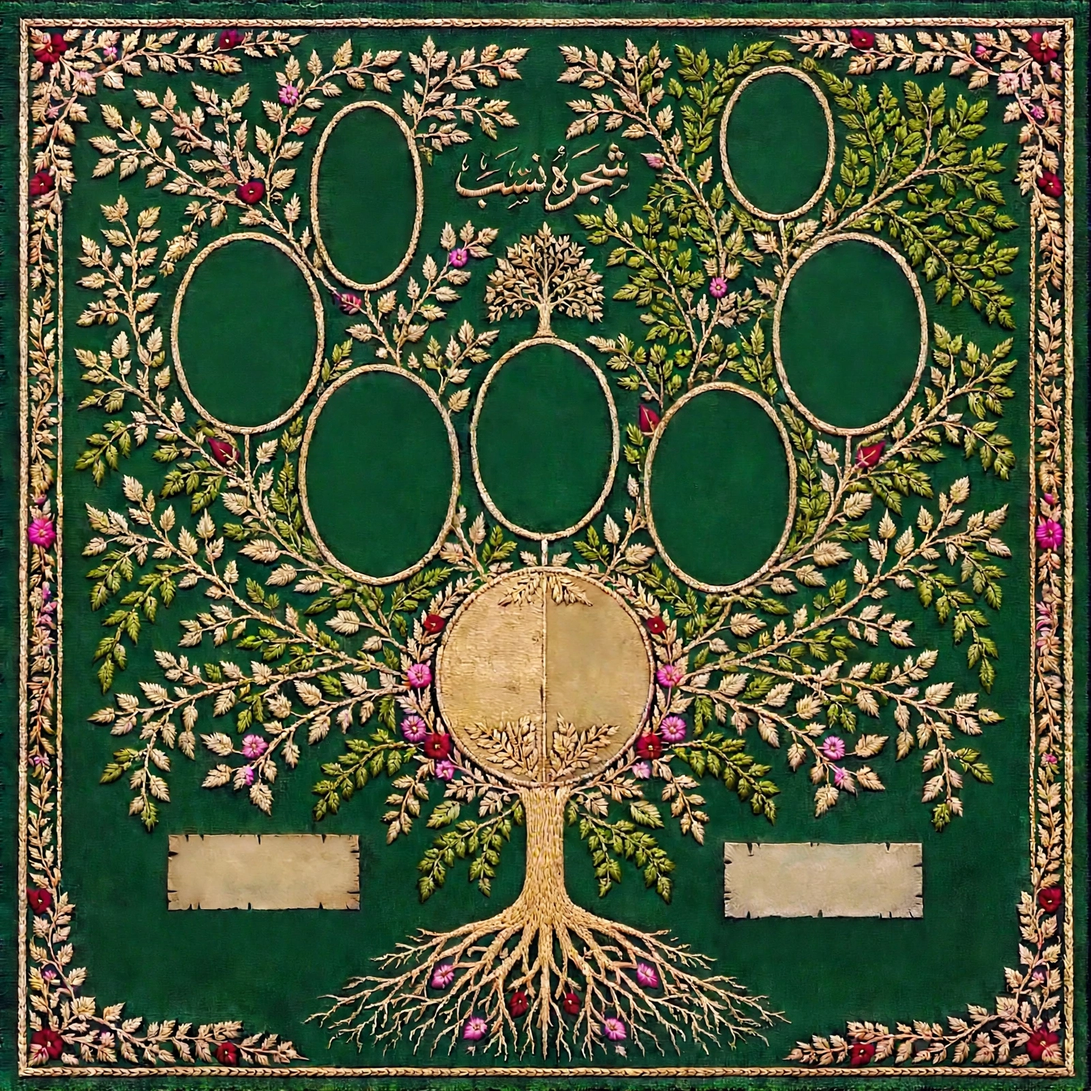
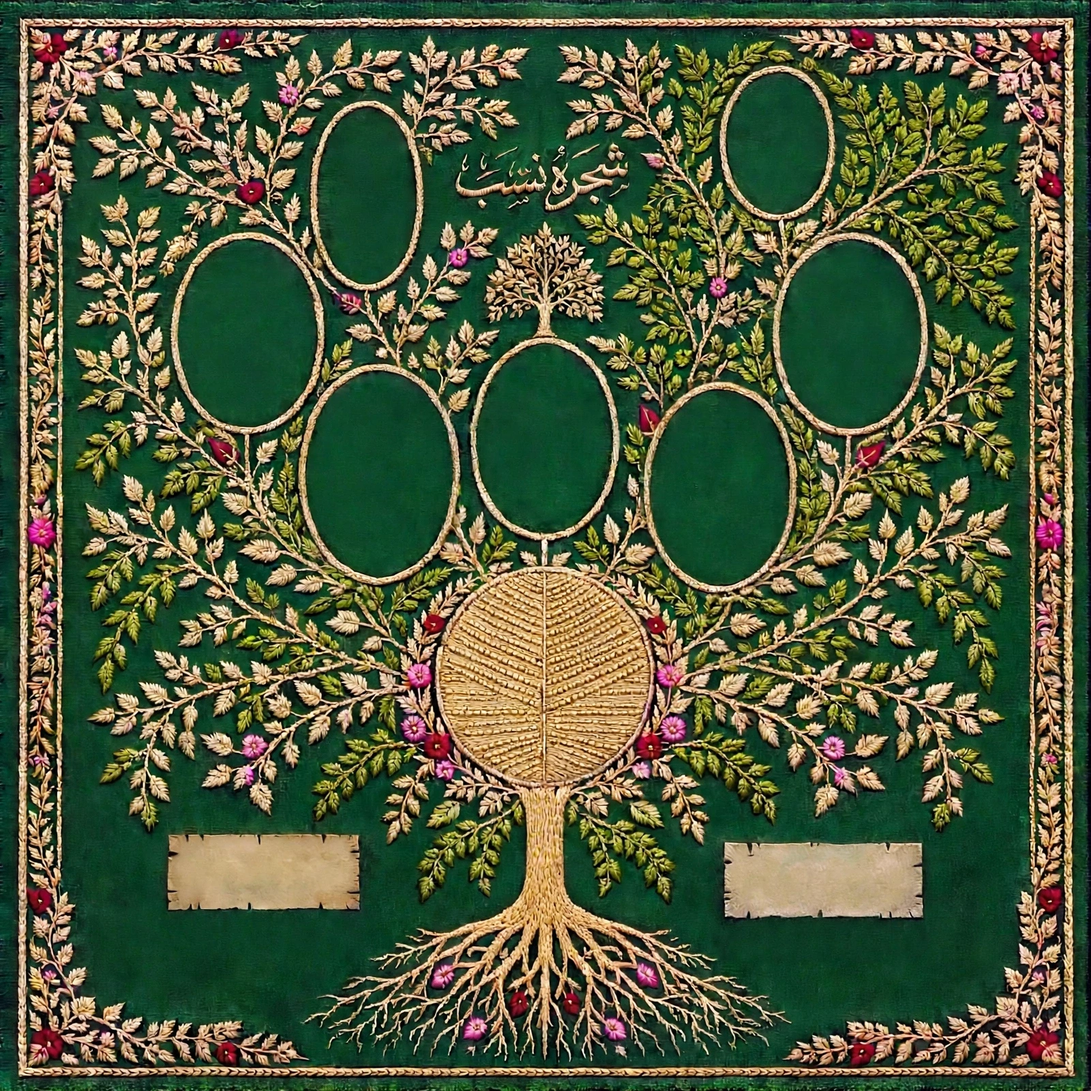
Woven gold centre disc, Humera branch test, descendant lines removed

Changed region(s): [[0.4062, 0.5, 0.5938, 0.7188]]

diff --git a/index.html b/index.html
@@ -170,6 +170,8 @@
   .art-oval .odiv{color:#c9a227;font-size:clamp(7px,.9vw,12px);line-height:1;margin:2px 0}
   .art-oval .akid{font-size:calc(clamp(9px,1.2vw,15.5px)*var(--tfs,1));line-height:1.25;display:flex;align-items:center;gap:3px;justify-content:center}
   .art-oval .akid svg{height:14px;width:auto;flex:none}
+  .art-branch{position:absolute;transform:translate(-50%,-50%);color:#f8edc9;font-weight:600;text-align:center;white-space:nowrap;z-index:3;font-size:calc(clamp(9px,1.2vw,15.5px)*var(--tfs,1));text-shadow:0 1px 0 rgba(0,0,0,.5),0 -1px 0 rgba(255,244,200,.22),1px 0 0 rgba(0,0,0,.26),-1px 0 0 rgba(0,0,0,.16),0 2px 4px rgba(0,0,0,.35)}
+  .art-branch[lang="ur"]{font-size:calc(clamp(10.5px,1.45vw,18px)*var(--tfs,1))}
   .art-centre{position:absolute;transform:translate(-50%,-50%);background:transparent;border:none;display:flex;color:#3a2c10;z-index:2;overflow:visible;text-shadow:0 1px 0 rgba(255,248,214,.55),0 -1px 1px rgba(96,64,0,.38),0 2px 3px rgba(96,64,0,.22)}
   .art-centre .chalf{flex:1;display:flex;flex-direction:column;align-items:center;justify-content:center;text-align:center;padding:2%}
   .art-centre .chalf:first-child{border-right:none}
@@ -1010,6 +1012,14 @@ function renderPreview(){
     var pos = ART_POS[ch.id];
     if(!pos){ pos = ART_EXTRA[extraIdx % ART_EXTRA.length]; extraIdx++; }
     var gkids = spouse ? kidsOfCouple(ch,spouse) : kidsOfCouple(ch,null);
+    var branchHTML = "";
+    if(ch.id==="humera" && gkids.length>=2){
+      var tips = [{x:60.2,y:31.2},{x:71.2,y:31.2}];
+      branchHTML = gkids.slice(0,2).map(function(k,i){
+        return '<div class="art-branch" style="left:'+tips[i].x+'%;top:'+tips[i].y+'%"'+(tapestryLang==="ur"?' lang="ur" dir="rtl"':'')+'>'+esc(langName(k,true))+'</div>';
+      }).join("");
+      gkids = gkids.slice(2);
+    }
     var wrapBr = (tapestryLang==="ur" && tapestryTextSize>=2) ? "<br>" : "";
     var coupleHTML = esc(langName(ch,true)) + (spouse ? joinerHTML + wrapBr + esc(langName(spouse,true)) : "");
     var kidsHTML = gkids.map(function(k){
@@ -1017,12 +1027,11 @@ function renderPreview(){
     }).join("");
     var style = 'left:'+pos.x+'%;top:'+pos.y+'%;width:'+pos.w+'%;height:'+pos.h+'%';
     return '<div class="art-oval" style="'+style+'"'+(tapestryLang==="ur"?' lang="ur" dir="rtl"':'')+'>'+
-      '<div class="cpl">'+coupleHTML+'</div>'+(kidsHTML?'<div style="height:4px"></div>'+kidsHTML:"")+'</div>';
+      '<div class="cpl">'+coupleHTML+'</div>'+(kidsHTML?'<div style="height:4px"></div>'+kidsHTML:"")+'</div>'+branchHTML;
   }).join("");
-  var desc = DESC_LINES[tapestryLang] || DESC_LINES.en;
   var centre = '<div class="art-centre" style="left:49.8%;top:62.3%;width:19%;height:20.3%">'+
-    '<div class="chalf"'+(tapestryLang==="ur"?' lang="ur" dir="rtl"':'')+'><div class="cname">'+esc(langName(cpl[0],false))+'</div><div class="cdesc">'+esc(desc[0])+'</div></div>'+
-    '<div class="chalf"'+(tapestryLang==="ur"?' lang="ur" dir="rtl"':'')+'><div class="cname">'+esc(langName(cpl[1],false))+'</div><div class="cdesc">'+esc(desc[1])+'</div></div></div>';
+    '<div class="chalf"'+(tapestryLang==="ur"?' lang="ur" dir="rtl"':'')+'><div class="cname">'+esc(langName(cpl[0],false))+'</div></div>'+
+    '<div class="chalf"'+(tapestryLang==="ur"?' lang="ur" dir="rtl"':'')+'><div class="cname">'+esc(langName(cpl[1],false))+'</div></div></div>';
   var pTitles = (tapestryLang==="ur") ? PLAQUE_UR.titles : ["Mustafa Kamal","The Khilji Khandan"];
   var pBodies = (tapestryLang==="ur") ? PLAQUE_UR.bodies :
     [ BLURB_MUSTAFA.split(" \u2014 ")[1] || BLURB_MUSTAFA, BLURB_KHILJI.split(" \u2014 ")[1] || BLURB_KHILJI ];
